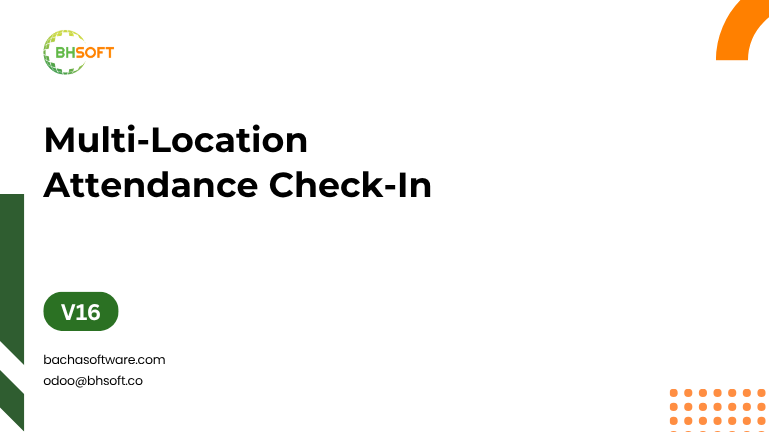
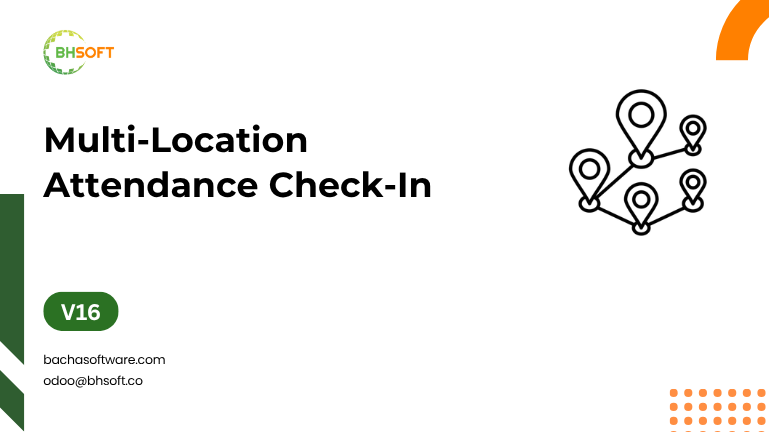
v16: update index for module

Changed region(s): [[0.7178, 0.2106, 0.9363, 0.5417]]

diff --git a/bhs_checkin_location/__manifest__.py b/bhs_checkin_location/__manifest__.py
@@ -1,6 +1,6 @@
 # -*- encoding: utf-8 -*-
 {
-    'name': "Attendances Checkin Location",
+    'name': "Multi‑Location Attendance Check‑In",
     'version': '16.0.1.2',
     'summary': 'Check-in with location.',
     'category': 'Human Resources/Attendances',

diff --git a/README.md b/README.md
@@ -8,7 +8,7 @@
     <img src="/bhs_checkin_location/static/description/icon.png" alt="Logo" width="80" height="80">
   </a>
 
-  <h3 align="center">Attendances Checkin Location</h3>
+  <h3 align="center">Multi‑Location Attendance Check‑In</h3>
 
   <p align="center">
     A product of Bac Ha Software allows employees to check-in from many different working locations such as: The company, home or other places such as outdoor locations.<br />
